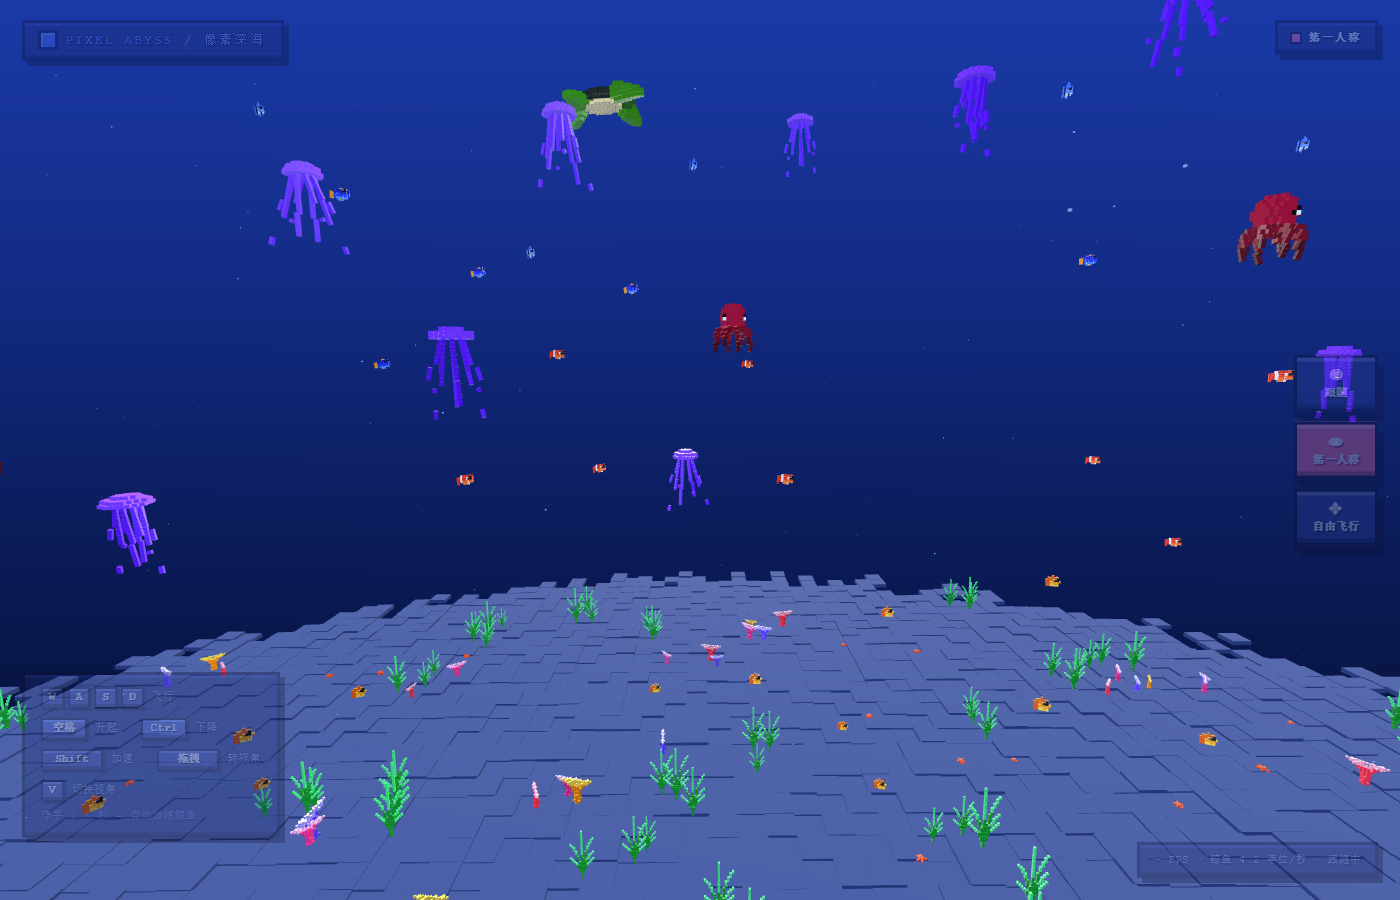
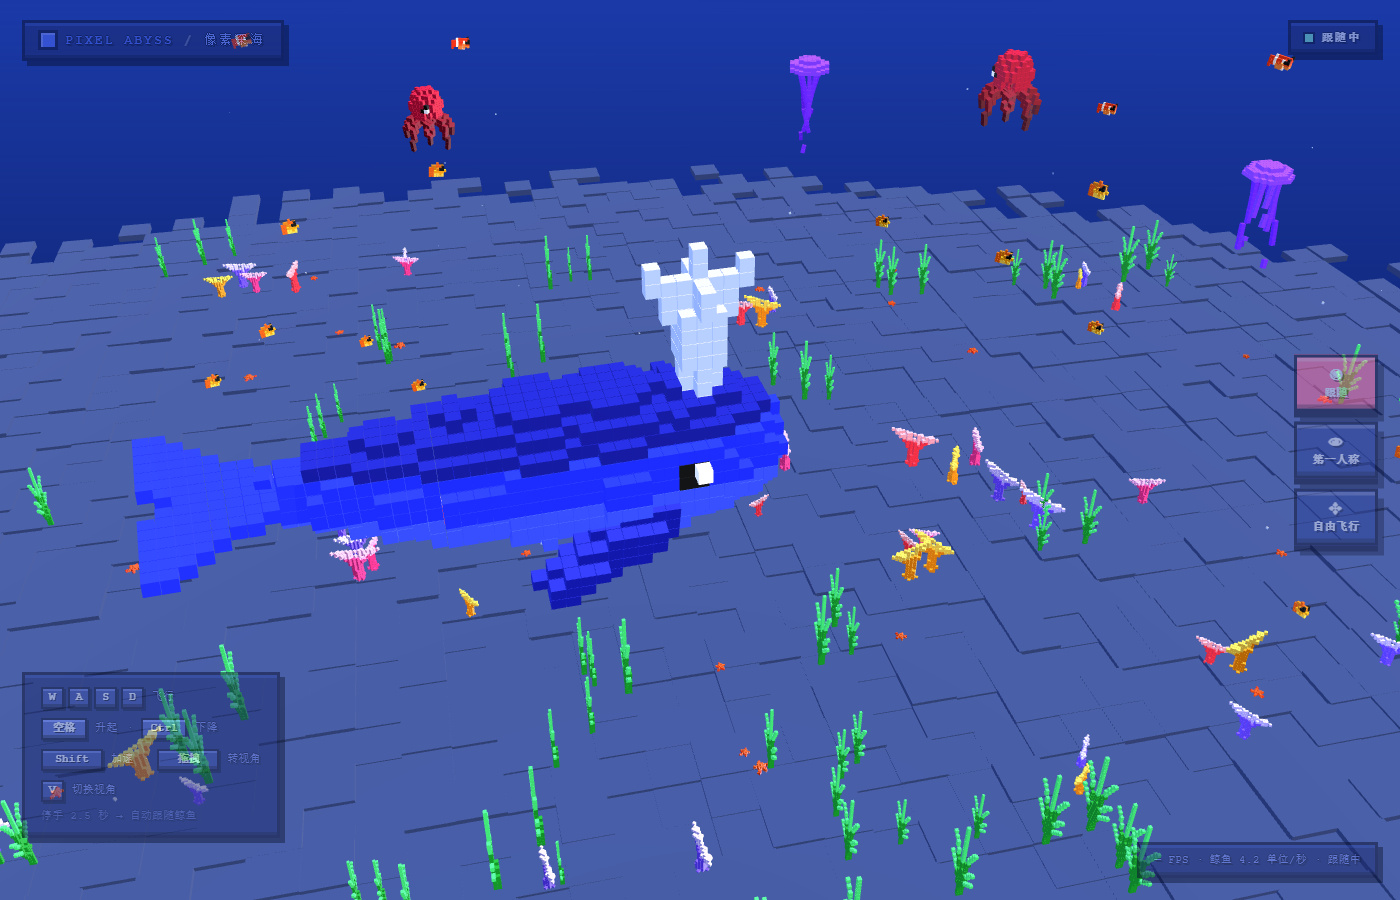
feat: 鲸鱼体型放大 3 倍（约 4.1 → 12.3 单位长）
- 鲸鱼根节点 scale 设为 3
- 第一人称相机眼睛偏移乘以体型缩放，避免相机陷进身体
- 呼吸起伏、上下摆动幅度同步缩放
- 跟随相机距离 34→70、高度 16→26、注视前移 3→12
- 巡游高度抬到 2~30（放大后半高约 3.3，贴太低会插进海床）
- 修复 test-splash-ui 因场景变大导致的超时（等待 2.5s→6s）

实测鲸鱼最低点 -3.3，海床 -54，间隙 50.7 单位，不会穿模。
全量测试 80/80 通过。

diff --git a/tests/test-splash-ui.html b/tests/test-splash-ui.html
@@ -24,7 +24,7 @@
       if (frame.contentDocument?.readyState === 'complete') r();
       else frame.addEventListener('load', r, { once: true });
     });
-    await wait(2500); // 等场景初始化
+    await wait(6000); // 等场景初始化（场景扩大后加载变慢）
 
     const doc = frame.contentDocument;
     const win = frame.contentWindow;
@@ -51,7 +51,7 @@
 
     // ── 4. 点击开始 ──
     startBtn.click();
-    await wait(900);
+    await wait(2000);
     ok(splash.classList.contains('hide'), '点击后开屏页隐藏');
     ok(hud.classList.contains('show'), '点击后 HUD 显示');
     ok(win.__GAME__?.started === true, '游戏状态标记为已开始');
@@ -71,7 +71,7 @@
     // ── 7. 点击第一人称 ──
     const fpBtn = btns.find((b) => b.dataset.view === 'first');
     fpBtn.click();
-    await wait(700);
+    await wait(1200);
     ok(win.__GAME__.viewMode === 'first', '切换到第一人称', `mode=${win.__GAME__.viewMode}`);
     ok(fpBtn.classList.contains('active'), '「第一人称」按钮高亮');
     ok(!followBtn.classList.contains('active'), '「跟随」按钮取消高亮');
@@ -83,21 +83,21 @@
     // ── 8. 点击自由飞行 ──
     const freeBtn = btns.find((b) => b.dataset.view === 'free');
     freeBtn.click();
-    await wait(700);
+    await wait(1200);
     ok(win.__GAME__.viewMode === 'free', '切换到自由飞行', `mode=${win.__GAME__.viewMode}`);
     ok(freeBtn.classList.contains('active'), '「自由飞行」按钮高亮');
     ok(doc.getElementById('modeText').textContent === '自由飞行', '徽章显示「自由飞行」');
 
     // ── 9. 切回跟随 ──
     followBtn.click();
-    await wait(700);
+    await wait(1200);
     ok(win.__GAME__.viewMode === 'follow', '切回跟随');
     ok(followBtn.classList.contains('active'), '「跟随」重新高亮');
 
     // ── 10. V 键循环 ──
     const before = win.__GAME__.viewMode;
     win.dispatchEvent(new win.KeyboardEvent('keydown', { code: 'KeyV', bubbles: true, cancelable: true }));
-    await wait(500);
+    await wait(1200);
     const after = win.__GAME__.viewMode;
     ok(after !== before, 'V 键能切换视角', `${before} → ${after}`);
 

diff --git a/src/firstPerson.js b/src/firstPerson.js
@@ -82,19 +82,21 @@ export class FirstPersonCamera {
     this.smoothRoll += (swimmer.roll - this.smoothRoll) * k;
 
     // ── 计算眼睛在世界里的位置 ──
-    // 鲸鱼 root 的变换：先平移 pos，再按 YXZ 旋转
+    // 鲸鱼 root 的变换：先缩放，再按 YXZ 旋转，最后平移
     const euler = new THREE.Euler(-swimmer.pitch, swimmer.heading + Math.PI / 2, this.smoothRoll, 'YXZ');
-    const local = this.eyeOffset.clone().multiplyScalar(VOXEL);
+    // 眼睛偏移必须乘上鲸鱼的缩放，否则放大的鲸鱼会把相机整个包进身体里
+    const scale = swimmer.scale ?? 1;
+    const local = this.eyeOffset.clone().multiplyScalar(VOXEL * scale);
     local.applyEuler(euler);
     this._tmpPos.copy(swimmer.pos).add(local);
 
-    // 呼吸起伏
-    this._tmpPos.y += Math.sin(this.time * 1.35) * this.bobAmount;
+    // 呼吸起伏（也随体型缩放）
+    this._tmpPos.y += Math.sin(this.time * 1.35) * this.bobAmount * scale;
 
     this.camera.position.copy(this._tmpPos);
 
     // ── 朝向：沿鲸鱼前进方向，略微下俯 ──
-    const lookDist = 10;
+    const lookDist = 26; // 鲸鱼放大 3 倍后同步加大注视距离
     const pitchBias = -0.14; // 稍微往下看，能看到海床、海草和珊瑚
     const p = this.smoothPitch + pitchBias;
     const forward = new THREE.Vector3(

diff --git a/src/main.js b/src/main.js
@@ -107,6 +107,9 @@ for (const v of voxels) {
 const TAIL_PIVOT_X = 11;
 
 const whale = new THREE.Group();
+// 鲸鱼体型放大 3 倍（模型原始尺寸约 4.1 单位长）
+const WHALE_SCALE = 3;
+whale.scale.setScalar(WHALE_SCALE);
 scene.add(whale);
 
 // 所有体素共用一个单位立方体几何
@@ -383,8 +386,8 @@ const swimmer = new WhaleSwimmer({
   turnAccel: 2.4, // 角加速度上限，越小转向越柔和
   bankAmount: 0.26,
   maxBank: 0.42,
-  minY: -20, // 巡游高度：场景放大后同步放宽
-  maxY: 14,
+  minY: 2, // 巡游高度：鲸鱼放大 3 倍后要抬高，否则会插进海床
+  maxY: 30,
   tailPivot,
   finPivots,
 });
@@ -404,11 +407,11 @@ controls.target.set(0, 0.5, 0);
 controls.autoRotate = false;
 
 const followCam = new FollowCamera(camera, controls, {
-  distance: 34,
-  height: 7, // 场景放大后同步抬高
+  distance: 70,
+  height: 26, // 随鲸鱼体型放大同步抬高
   sideOffset: 0.85,
-  lookAhead: 3,
-  posStiffness: 4.5, // 位置跟得紧一点，但不抖
+  lookAhead: 12,
+  posStiffness: 3.0, // 体型变大后适当放缓，避免甩
   headingStiffness: 1.5, // 朝向慢半拍 → 转弯时相机顺弧线绕
   camStiffness: 2.6,
   lookStiffness: 3.2,

diff --git a/src/whaleAI.js b/src/whaleAI.js
@@ -46,6 +46,8 @@ export class WhaleSwimmer {
     finPivots = [],
   }) {
     this.root = root;
+    // 体型缩放（供第一人称相机换算眼睛位置）
+    this.scale = root.scale.x || 1;
     this.bounds = bounds;
     this.margin = margin;
     this.cruiseSpeed = speed;
@@ -337,8 +339,8 @@ export class WhaleSwimmer {
       pivot.rotation.z = Math.sin(t * beat * 0.6) * 0.1;
     });
 
-    // 上下起伏（纯视觉）
-    this.root.position.y += Math.sin(t * 0.9) * 0.18;
+    // 上下起伏（纯视觉，随体型缩放）
+    this.root.position.y += Math.sin(t * 0.9) * 0.18 * this.scale;
   }
 }
 
